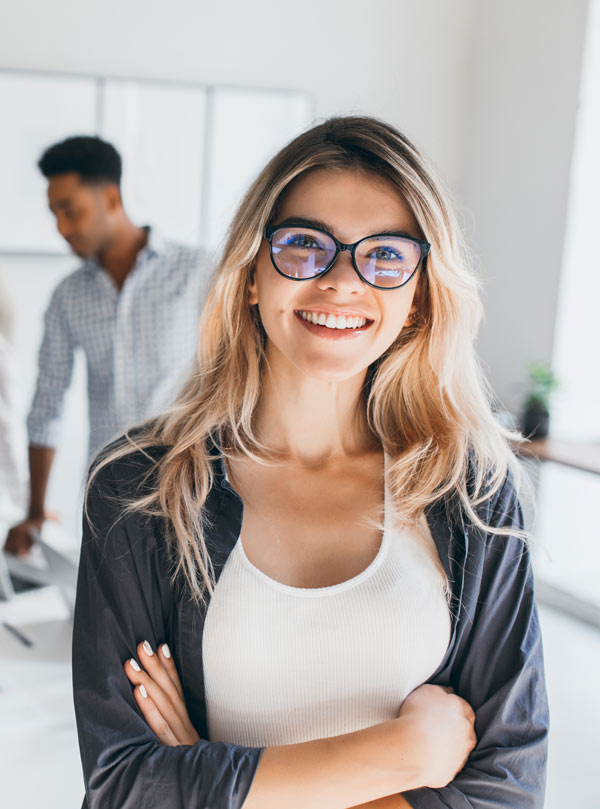
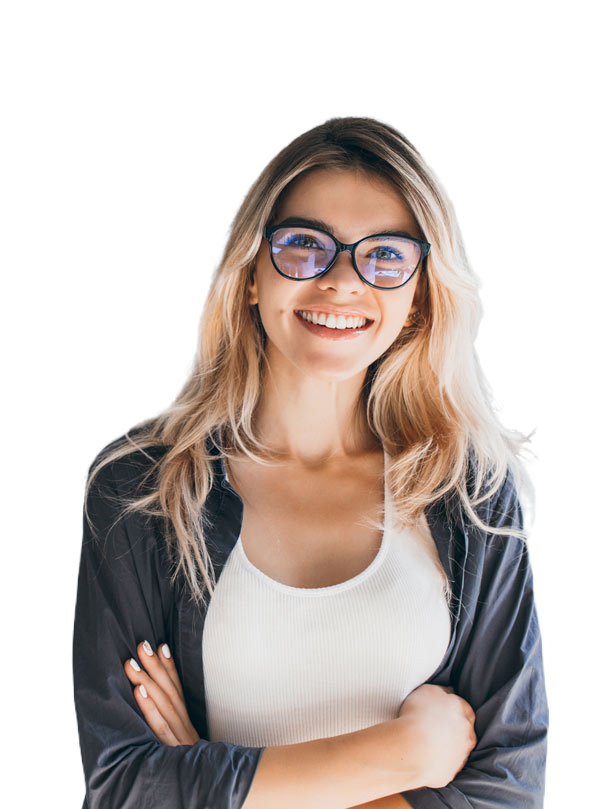
Almost done

diff --git a/src/index.css b/src/index.css
@@ -11,7 +11,7 @@ body {
 
 
 .maincontainer{
-  max-width: 1440px;
+  max-width: 1400px;
   font-size: 15px;
   margin: 0px auto;
   
@@ -169,27 +169,99 @@ width: 100%;
   font-weight: bold;
   
 }
+.expert-textand-button{
+  text-align: center;
+  margin-top: 100px;
+}
+.expert-textand-button-para{
+  padding-left: 50px;
+  padding-right: 50px;
+}
+.expert-button{
+  padding: 15px 32px 15px 32px;
+  background-color: #F77E23;
+  color: white;
+  font-weight: bold;
+  border: #F77E23;
+  border-radius: 5px;
+}
+
+.expert-container{
+ 
+  backdrop-filter: blur(300px);
+  position: relative;
+  margin-top: 50px;
+  
+  
+ 
+
+}
+
+.dotted-circle{
+  height: 330px;
+  width: 330px;
+  border-radius: 50%;
+  border: 5px dotted #F77E23;
+  position: absolute;
+  top: 50px;
+  left: 20px;
+  
+  
+  
+  
+}
+.close-circle{
+  height: 250px;
+  width: 250px;
+  border-radius: 50%;
+ background-color:pink;
+ position: absolute;
+ top: 95px;
+ left: 65px;
+ 
+}
+
+
+
+
+
+
 
 
 
 .experts-image-and-text-container{
   /* display: flex; */
-  background:linear-gradient(to top, #ffcccc 0%, #ffffff 100%);
+  
+  /* background:linear-gradient(to top, #ffcccc 0%, #ffffff 100%); */
   backdrop-filter: blur(200px);
-  opacity: 0.9;
+  /* opacity: 0.9; */
   backdrop-filter: blur(200px);
+
+  
 }
 
 #experts-woman-image{
-  /* border-radius: 100% 20% 0% 10%;  */
+  
   border-radius: 50%;
-  height:200px;
-  width: 200px;
-  /* object-fit: cover; */
-  /* object-position: 55% 55% 55% 55%; */
-  /* overflow: hidden; */
+  height:380px;
+  width: 300px;
+  position: absolute;
+  top: -40px;
+  left:40px;
+ 
+ 
+ 
+
  
 }
+
+.expert-block-image{
+  position: relative;
+  top: 110px;
+  height: 300px;
+  width: 230px;
+ left: 180px;
+} 
 .all-cards{
   display: flex;
   justify-content: space-around;
@@ -343,7 +415,7 @@ input[type=submit] {
   visibility: hidden;
 }
 .publication-section{
-  margin-top: 60px;
+  margin-top: 0px;
   display: inline-block;
   visibility: visible;
 }
@@ -559,6 +631,15 @@ bottom: 0px;
   font-size: 24px;
   padding-left: 40px;
 }
+
+
+
+
+
+
+
+
+
   @media screen and (min-width: 769px) {
     
     .hidden-Navbar-links{
@@ -777,11 +858,102 @@ bottom: 0px;
           }
 
 
-          .expert-container{
-            background-color: rgba(255, 255, 255, 0.6);
-            backdrop-filter: blur(200px);
+          .expert-textand-button{
+            text-align: start;
+            margin-top: 100px;
+            /* margin-left: 100px; */
+            padding-left: 200px;
+            padding-right: 100px;
+            font-size: 24px;
           }
-
+          .expert-textand-button-para{
+            
+            padding-left: 0px;
+            padding-right: 20px;
+            font: 16px;
+            
+          }
+          .expert-button{
+            padding: 15px 32px 15px 32px;
+            background-color: #F77E23;
+            color: white;
+            font-weight: bold;
+            border: #F77E23;
+            border-radius: 5px;
+          }
+          
+          .expert-container{
+            /* background-color: rgba(255, 255, 255, 0.6);
+            backdrop-filter: blur(200px); */
+            position: relative;
+            margin-top: 0px;
+            display: flex;
+            
+            
+           
+          
+          }
+          
+          .dotted-circle{
+            height: 330px;
+            width: 330px;
+            border-radius: 50%;
+            border: 5px dotted #F77E23;
+            position: absolute;
+            top: 50px;
+            left: 20px;
+            
+          }
+          .close-circle{
+            height: 250px;
+            width: 250px;
+            border-radius: 50%;
+           background-color:pink;
+           position: absolute;
+           top: 95px;
+           left: 65px;
+          }
+          
+          
+          
+          
+          
+          
+          
+          
+          
+          .experts-image-and-text-container{
+            display: flex;
+            height: 500px;
+            
+            /* background:linear-gradient(to top, #ffcccc 0%, #ffffff 100%); */
+            /* backdrop-filter: blur(200px); */
+            /* opacity: 0.9; */
+            /* backdrop-filter: blur(200px); */
+            
+          }
+          
+          #experts-woman-image{
+            
+            border-radius: 50%;
+            height:380px;
+            width: 300px;
+            position: absolute;
+            top: -40px;
+            left:40px;
+           
+          
+           
+          }
+          
+          .expert-block-image{
+            height: 300px;
+            width: 230px;
+            position: relative;
+            top: 110px;
+           left: 180px;
+          } 
+          
           .all-cards{
             display: flex;
             justify-content: space-around;
@@ -909,7 +1081,9 @@ bottom: 0px;
             }
 
             .form-section{
-              background-color: pink;
+              /* background: rgb(250,193,217); */
+              background: linear-gradient(90deg, rgba(250,193,217,1) 0%, rgba(245,245,245,1) 43%, rgba(250,193,217,1) 100%);
+             
               display: flex;
               justify-content: space-between;
               /* width: 100%; */

diff --git a/src/Components/Experts.js b/src/Components/Experts.js
@@ -2,18 +2,23 @@
 function Experts(){
     return(
     <div className='expert-container'>
+
+
+<div className="dotted-circle"></div>
+<div className="close-circle"></div>
+
     
         <div  className="experts-image-and-text-container">
             <div className="experts-image-container">
             <img id="experts-woman-image" src="images/Experts/image1.png" />
-            <img src="images/Experts/image3.svg"/>
+            <img className="expert-block-image"src="images/Experts/image3.svg"/>
             </div>
             
         <div className="expert-textand-button">
             
-            <h1> We are Experts Learning institution</h1>
-            <p> Lorem ipsum dolor sit amet, consectetur adipiscing elit. Sit elit, bibendum volutpat platea mi, adipiscing eget magna.</p>
-            <button className=" buttons expert-button"> Get started</button>
+            <h1> We are <span className="student"> Experts</span> Learning institution</h1>
+            <p className="expert-textand-button-para"> Lorem ipsum dolor sit amet, consectetur adipiscing elit. Sit elit, bibendum volutpat platea mi, adipiscing eget magna. </p>
+            <button className="  expert-button"> Get started</button>
         
         </div>
     </div>
